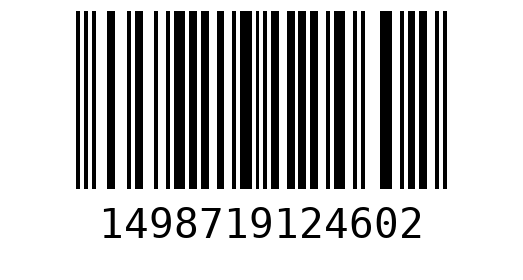
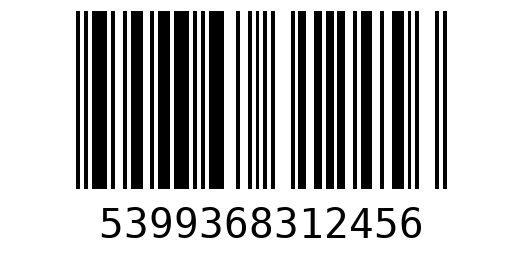
enhanche

diff --git a/app.py b/app.py
@@ -1,9 +1,9 @@
-import databases.databases as databases
-
+import databases.databases as databases #library
+import random as rnd
 # Membuat tabel data di databases
 databases.init_login_db()
 databases.init_data_diri_db()
-databases.init_train_db()
+databases.init_kereta_db()
 
 # PROSES LOGIN
 while True:
@@ -49,22 +49,22 @@ while True:
 
 # PESAN TIKET
 while True:
-    station_map = {'1': "Padalarang", '2': "Cimahi",
-                   '3': "Stasiun Bandung", '4': "Kiaracondong", '5': "Rancaekek"}
+    stasiun = {'1': "Padalarang", '2': "Cimahi",
+               '3': "Stasiun Bandung", '4': "Kiaracondong", '5': "Rancaekek"}
 
     decision = input(
         "\nApakah Anda ingin pesan tiket? \n1. Ya \n2. Tidak\nMasukkan pilihan Anda: ")
     if decision == '1':
         asal = input(
             "\nStasiun asal: \n1. Padalarang  \n2. Cimahi \n3. Stasiun Bandung \n4. Kiaracondong \n5. Rancaekek \nPilih stasiun asal Anda: ")
-        asal = station_map.get(asal)
+        asal = stasiun.get(asal)
         if not asal:
             print("\nPilihan tidak valid. Silakan coba lagi.")
             continue
 
         tujuan = input(
             "\nStasiun tujuan: \n1. Padalarang  \n2. Cimahi \n3. Stasiun Bandung \n4. Kiaracondong \n5. Rancaekek \nPilih stasiun tujuan Anda: ")
-        tujuan = station_map.get(tujuan)
+        tujuan = stasiun.get(tujuan)
         if not tujuan:
             print("\nPilihan tidak valid. Silakan coba lagi.")
             continue
@@ -76,13 +76,21 @@ while True:
         jam = input(
             "\nJam keberangkatan: \n1. 05.00 - 07.30 \n2. 07.30-10.00 \n3. 10.00 - 12.30 \n4. 12.30 - 15.00 \n5. 15.00 - 17.30 \nPilih jam keberangkatan Anda: ")
 
-        time_map = {'1': "05.00 - 07.30", '2': "07.30 - 10.00",
-                    '3': "10.00 - 12.30", '4': "12.30 - 15.00", '5': "15.00 - 17.30"}
+        waktu = {'1': "05.00 - 07.30", '2': "07.30 - 10.00",
+                 '3': "10.00 - 12.30", '4': "12.30 - 15.00", '5': "15.00 - 17.30"}
 
-        jam = time_map.get(jam)
+        jam = waktu.get(jam)
         if not jam:
             print("\nPilihan tidak valid. Silakan coba lagi.")
             continue
+
+        va = ""
+        for i in range(10):
+            random_number = rnd.randint(0, 9)
+            random_numbers_str = str(random_number)
+            va = va + random_numbers_str
+
+        print("Lakukan pembayaran melalui VA: ", va)
 
         databases.book_ticket(asal, tujuan, jam, nama)
         print("\n\n====================================================")

diff --git a/modules/generate_barcode.py b/modules/generate_barcode.py
@@ -9,18 +9,21 @@ if not os.path.exists(output_dir):
 
 
 def create(nama):
-    id = ""
+    id = []
 
     for i in range(13):
         random_number = rnd.randint(0, 9)
         random_numbers_str = str(random_number)
-        id = id + random_numbers_str
+        id.append(random_numbers_str)
 
-    id_int = int(id)
+    tiket_id = ""
+
+    for i in range(13):
+        tiket_id += id[i]
 
     EAN = barcode.get_barcode_class('ean13')
-    ean = EAN(str(id_int).zfill(12), writer=ImageWriter())
+    ean = EAN(str(tiket_id).zfill(12), writer=ImageWriter())
     filename = f'tiket barcode {nama}'
     full_path = os.path.join(output_dir, filename)
     ean.save(full_path)
-    return id_int
+    return tiket_id

diff --git a/databases/databases.py b/databases/databases.py
@@ -3,7 +3,8 @@ import modules.generate_barcode as barcode
 import os
 
 db_dir = "databases"
-
+if not os.path.exists(db_dir):
+    os.makedirs(db_dir)
 # Membuat tabel data untuk data diri
 
 
@@ -41,7 +42,7 @@ def init_login_db():
 # Membuat tabel data untuk informasi kereta
 
 
-def init_train_db():
+def init_kereta_db():
     conn = sqlite3.connect(os.path.join(db_dir, 'data_kereta.db'))
     cursor = conn.cursor()
     cursor.execute('''
